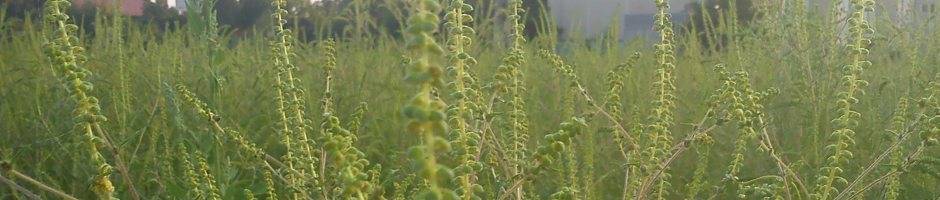
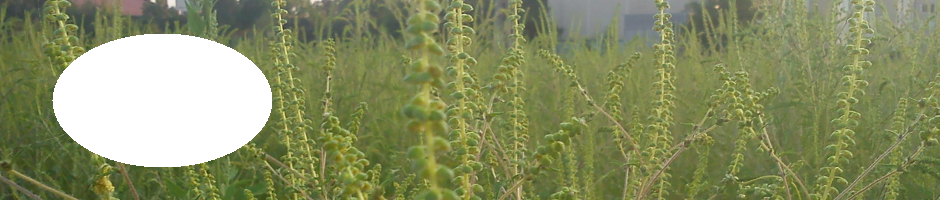
kesz

Changed region(s): [[0.0309, 0.15, 0.3085, 0.84]]

diff --git a/gyakorlas_parlagfu/irtas.html b/gyakorlas_parlagfu/irtas.html
@@ -3,41 +3,82 @@
   <head>
     <meta charset="UTF-8" />
     <meta name="viewport" content="width=device-width, initial-scale=1.0" />
-    <Link rel="stylesheet" href="style.css"></Link>
+    <link rel="stylesheet" href="style.css" />
     <title>A parlagfűről</title>
   </head>
   <body>
-    <table width = "980px">
-        <tr>
-            <td>
-                <table id="belso">
-                    <tr>
-                        <td></td>
-                        <td></td>
-                        <td></td>
-                        <td></td>
-                        <td></td>
-                        <td></td>
-                    </tr>
-                    <tr>
-                        <td></td>
-                        <td></td>
-                        <td></td>
-                        <td></td>
-                        <td></td>
-                        <td></td>
-                    </tr>
-                    <tr>
-                        <td></td>
-                        <td></td>
-                        <td></td>
-                        <td></td>
-                        <td></td>
-                        <td></td>
-                    </tr>
-                </table>
-            </td>
-        </tr>
+    <table class="kulso">
+      <tr>
+        <td>
+          <table class="belso">
+            <tr>
+              <td colspan="6">
+                <img src="cim.png" alt="Kép a parlagfűről" class="fejlec" />
+              </td>
+            </tr>
+
+            <tr class="menu">
+              <td>Előfordulása</td>
+              <td>Fejlődése</td>
+              <td>Terjedése</td>
+              <td>Parlagfű allergia</td>
+              <td>Megelőzés</td>
+              <td><a href="irtas.html">Irtási módszerek</a></td>
+            </tr>
+
+            <tr>
+              <td colspan="6" class="tartalom">
+                <h1>Irtási módszerek</h1>
+                <p>
+                  A parlagfű irtását folyamatosan kell végezni. A növényt a
+                  virágzása előtt kell elpusztítani, hogy ne szórhasson
+                  virágport, és ne érlelhessen termést.
+                </p>
+                <img src="gyomlalas.png" alt="Gyomlálás" class="kep" />
+                <ul>
+                  <li>
+                    <strong>Gyomlálás:</strong> A virágzó parlagfű irtását ne
+                    bízzuk gyerekekre, mert az erős pollenkoncentráció a
+                    levegőben kiválthatja a lappangó allergiát. Kerülni kell a
+                    virágzó növény közvetlen érintését, mert az is allergiás
+                    reakciót válthat ki. Ilyenkor a kézi irtást kesztyűben kell
+                    végezni.
+                  </li>
+                  <li>
+                    <strong>Kaszálás:</strong> A környezetet és a költségeket is
+                    leginkább kímélő eljárás. A fiatal növényeket tömeges
+                    megjelenésük után, minél előbb tanácsos kaszálni. A
+                    talajszinten a gyökérnyaki résznél kell a növény szárát
+                    elvágni. Ez a legbiztosabb módszer, mivel a növények nem
+                    tudnak újrahajtani. Ha ezzel elkéstünk, az egyszeri kaszálás
+                    már nem eredményezi a parlagfű kiirtását, mert a növény az
+                    alacsonyan elhelyezkedő oldalrügyeiből 3-4 oldalhajtást
+                    nevel, és pár hét múlva újra virágba borul. Általában három
+                    kaszálás biztosít megfelelő eredményt. Ha a háromszori
+                    kaszálás nem valósítható meg, úgy az egyszeri kaszálás a
+                    virágzást közvetlenül megelőző időszakban a leghatékonyabb.
+                  </li>
+                  <li>
+                    <strong>Vegyszeres gyomirtás:</strong> A parlagfű terjedése
+                    gyomirtó szerek használata nélkül nem állítható meg. Azonban
+                    vegyszeres kezeléseket csak olyan helyen szabad alkalmazni,
+                    ahol ez embereket és főként gyermekeket semmilyen módon nem
+                    veszélyeztet. Az irtás a korai növekedési fázisban a
+                    hatleveles állapotáig hatásos.
+                  </li>
+                  <li>
+                    <strong>Életlehetőségeinek csökkentése:</strong> Mivel a
+                    parlagfű zárt növénytakaró mellett nem fejlődik,
+                    kiszorítható jól fejlődő növényzet telepítésével, és
+                    fűmagvetéssel, gyep telepítésével. A dús vegetáció mellett a
+                    parlagfű ki fog szorulni.
+                  </li>
+                </ul>
+              </td>
+            </tr>
+          </table>
+        </td>
+      </tr>
     </table>
   </body>
 </html>

diff --git a/gyakorlas_parlagfu/parlagfu.html b/gyakorlas_parlagfu/parlagfu.html
@@ -3,41 +3,65 @@
   <head>
     <meta charset="UTF-8" />
     <meta name="viewport" content="width=device-width, initial-scale=1.0" />
-    <Link rel="stylesheet" href="style.css"></Link>
+    <link rel="stylesheet" href="style.css" />
     <title>A parlagfűről</title>
   </head>
   <body>
-    <table width = "980px">
-        <tr>
-            <td>
-                <table id="belso">
-                    <tr>
-                        <td></td>
-                        <td></td>
-                        <td></td>
-                        <td></td>
-                        <td></td>
-                        <td></td>
-                    </tr>
-                    <tr>
-                        <td></td>
-                        <td></td>
-                        <td></td>
-                        <td></td>
-                        <td></td>
-                        <td></td>
-                    </tr>
-                    <tr>
-                        <td></td>
-                        <td></td>
-                        <td></td>
-                        <td></td>
-                        <td></td>
-                        <td></td>
-                    </tr>
-                </table>
-            </td>
-        </tr>
+    <table class="kulso">
+      <tr>
+        <td>
+          <table class="belso">
+            <tr>
+              <td colspan="6">
+                <img src="cim.png" alt="Kép a parlagfűről" class="fejlec" />
+              </td>
+            </tr>
+
+            <tr class="menu">
+              <td>Előfordulása</td>
+              <td>Fejlődése</td>
+              <td>Terjedése</td>
+              <td>Parlagfű allergia</td>
+              <td>Megelőzés</td>
+              <td><a href="irtas.html">Irtási módszerek</a></td>
+            </tr>
+
+            <tr>
+              <td colspan="6" class="tartalom">
+                <h1>A növényről</h1>
+                <p>
+                  A parlagfű (Ambrosia artemisiifolia) kétszikű, 20–140 cm
+                  magas, terebélyes, ágas egyéves gyom. Központi egyenes, tompa
+                  négy élű szárral rendelkezik, amelynek sűrű oldalhajtásai
+                  vannak. A talajhoz közeli néhány cm-es részen 2-3 elágazása is
+                  lehetséges. Magassága változatos, a kifejlett növény zárt és
+                  magas növénykultúrában, kukorica- vagy napraforgótáblákban a
+                  150 cm magasságot is elérheti.
+                </p>
+                <p>
+                  Levelei 1 vagy 2-szeresen szárnyasan szeldeltek, kétoldalt
+                  sűrűn szőrözöttek. A szőrök a levél fonákján hosszabbak. A
+                  levél színe sötétzöld, fonákja szürkészöld. A sárga színű 4–5
+                  mm-es porzós fészkek, a legfelső hajtások végén, rövid
+                  kocsányon ülnek. A fészkek 10-15 virágot tartalmaznak.
+                </p>
+                <p>
+                  Virágpora súlyos allergiát okoz. A termős virágok a porzósok
+                  alatti legközelebbi levél hónaljában találhatóak. Termése 2–4
+                  mm hosszú, szürke, szív alakú. Egy fogazott burok takarja a
+                  termő részt, amely az érés után a terméssel együtt lehullik. A
+                  virágok aránya a növényzet sűrűsége szerint változik.
+                </p>
+                <p>
+                  Ritka állományban inkább a termős, sűrű állományban a porzós
+                  virágok dominálnak. Igénytelen. Nagy növekedési, szaporodási
+                  erélye révén könnyen felülkerekedik más növényeken.
+                </p>
+              </td>
+            </tr>
+          </table>
+        </td>
+      </tr>
     </table>
   </body>
 </html>

diff --git a/gyakorlas_parlagfu/style.css b/gyakorlas_parlagfu/style.css
@@ -1,25 +1,71 @@
-* {
-  background-color: rgb(156, 238, 89);
-}
-link:active,
-:enabled,
-:hover,
-:valid {
-  color: rgb(153, 153, 153);
+body {
+  background-color: #9cee59;
+  color: black;
 }
 
-table,
-tr,
-td {
-  padding: 0;
-  margin: 0;
-  background-color: rgb(80, 144, 80);
-  border: none;
+a:link,
+a:visited,
+a:hover,
+a:active {
+  color: #999999;
 }
 
-#belso {
-  padding: 1px;
+.kulso {
+  width: 980px;
+  margin: auto;
+  background-color: #509050;
+  border: 0;
+  border-spacing: 0;
+}
+
+.belso {
+  width: 940px;
   margin: auto;
   background-color: white;
-  width: 940px;
+  border: 0;
+  border-spacing: 1px;
+}
+
+.fejlec {
+  width: 100%;
+  display: block;
+}
+
+.menu td {
+  height: 40px;
+  background-color: black;
+  color: white;
+  text-align: center;
+  vertical-align: middle;
+}
+
+.menu a {
+  color: white;
+  text-decoration: none;
+}
+
+.tartalom {
+  background-color: white;
+  padding: 8px;
+  vertical-align: top;
+}
+
+h1 {
+  font-size: 24px;
+}
+
+p {
+  line-height: 1.4;
+}
+
+.gyomlalas {
+  float: right;
+  margin: 0 5px;
+  border: 1px solid black;
+}
+
+.kep {
+  float: right;
+  margin: 0 5px;
+  border: 1px solid black;
 }
